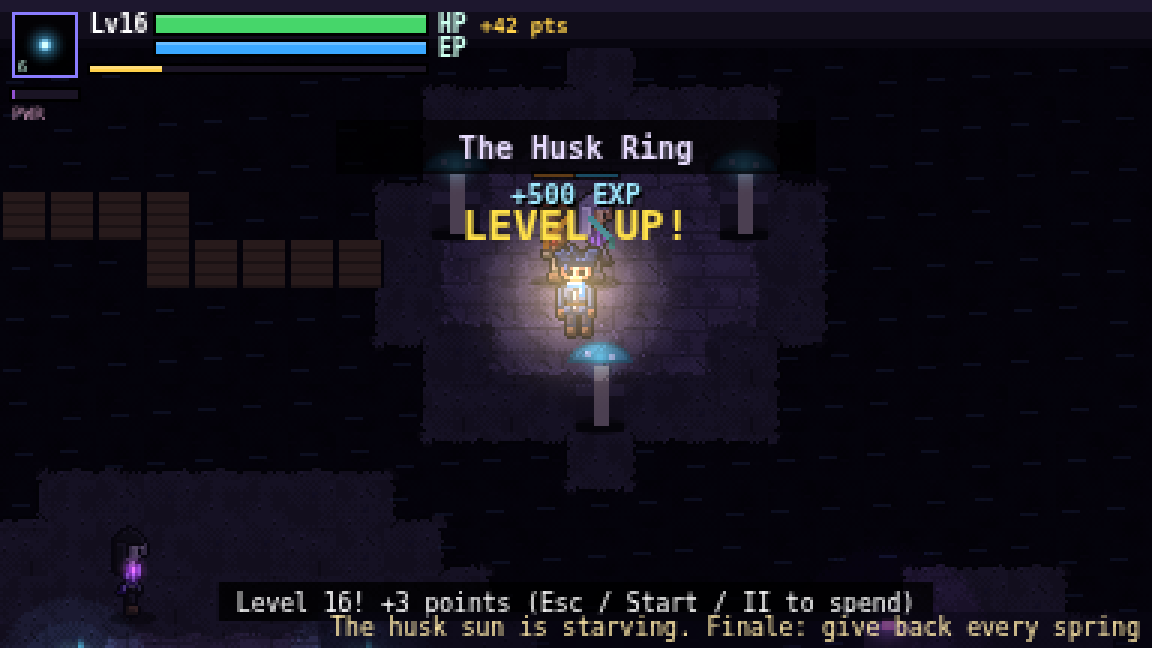
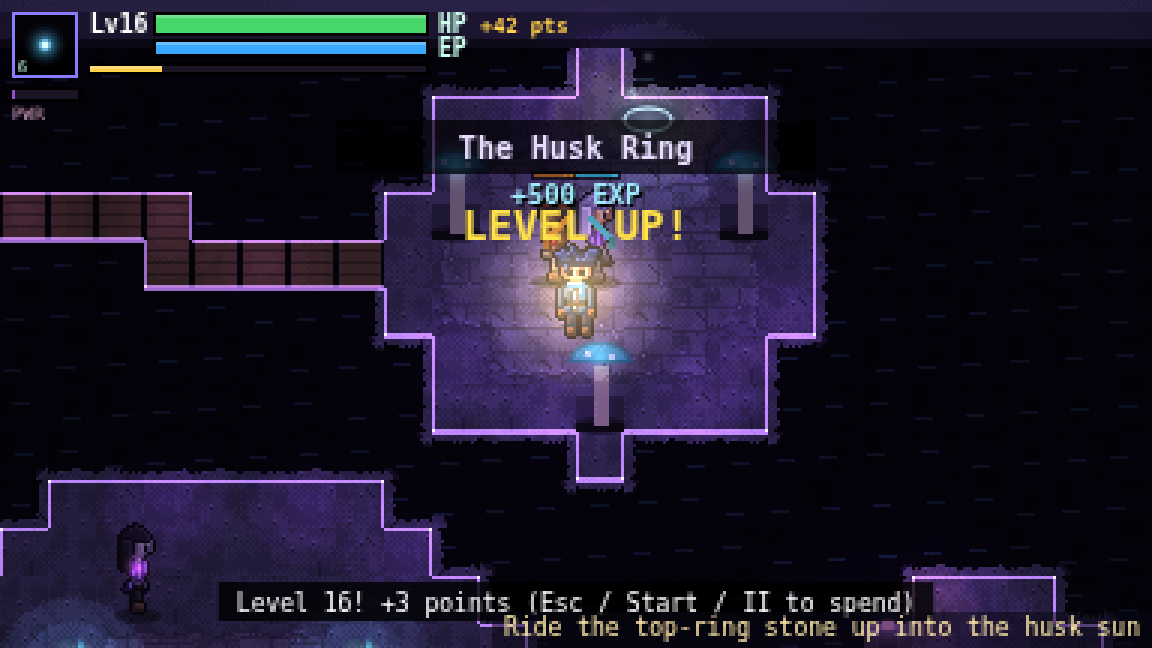
W11: brighter Stair + husk sun, Husk Sun finale area, dawn epilogue, credits, day/night

Changed region(s): [[0.125, 0.0, 0.7812, 0.7716], [0.0, 0.7099, 1.0, 1.0], [0.0, 0.2778, 0.1875, 0.4012]]

diff --git a/src/areas/art.ts b/src/areas/art.ts
@@ -8,18 +8,21 @@ import { groundSet, drawGround, type GroundSet, type Kind } from "./groundgen";
 type C2 = CanvasRenderingContext2D;
 const PAL = {
   moss: { floor: ["#3d3a46", "#383542"], moss: ["#33452f", "#2f402b"], path: ["#5a4c3c", "#54473a"], wall: ["#3a3448", "#4c4560", "#231f2e"], water: ["#1c2a4a", "#22325a"] },
-  violet: { floor: ["#3a3248", "#363044"], moss: ["#2e2a44", "#2a2640"], path: ["#4a4258", "#463e54"], wall: ["#2e2838", "#4e4660", "#161220"], water: ["#0a0614", "#0c0818"] },
+  violet: { floor: ["#5c5274", "#585070"], moss: ["#4c4670", "#48426c"], path: ["#6e6488", "#6a6084"], wall: ["#3e3650", "#5e5678", "#1e1828"], water: ["#07040f", "#090512"] },
+  husk: { floor: ["#4a2a2e", "#46282c"], moss: ["#3a2230", "#36202c"], path: ["#5a3a30", "#56362e"], wall: ["#2a1418", "#4a2a26", "#140a0c"], water: ["#c06a20", "#d07a28"] },
   tide: { floor: ["#2a3a40", "#26363c"], moss: ["#1e3a3a", "#1c3636"], path: ["#3c4a4a", "#384646"], wall: ["#2a3438", "#4a5a5c", "#141c20"], water: ["#0e4a5a", "#125664"] },
   ember: { floor: ["#3a2e2a", "#362a26"], moss: ["#2e2626", "#2a2222"], path: ["#5a4232", "#54402e"], wall: ["#3a2a28", "#5a3a30", "#1e1412"], water: ["#8a2a10", "#a03a14"] },
   marsh: { floor: ["#2f3440", "#2b303b"], moss: ["#2c3a3a", "#283636"], path: ["#4a4438", "#454034"], wall: ["#2e2a3e", "#403a56", "#1c1828"], water: ["#241a44", "#2c2052"] },
 };
 
-const GPAL = { moss: { spore: "#6ad8ff", plaza: "#544c5a" }, marsh: { spore: "#b48aff", plaza: "#4c4652" }, ember: { spore: "#ff8a4a", plaza: "#6a5650" }, tide: { spore: "#7affe0", plaza: "#4e5e60" }, violet: { spore: "#c48aff", plaza: "#5a4e6a" } };
-const GSETS: Partial<Record<"moss" | "marsh" | "ember" | "tide" | "violet", GroundSet>> = {};
-const gset = (t: "moss" | "marsh" | "ember" | "tide" | "violet") => (GSETS[t] ??= groundSet({ floor: PAL[t].floor[0], moss: PAL[t].moss[0], path: PAL[t].path[0], water: PAL[t].water[0], ...GPAL[t] }, t === "moss" ? 1 : t === "marsh" ? 2 : t === "ember" ? 3 : 4));
+const GPAL = { moss: { spore: "#6ad8ff", plaza: "#544c5a" }, marsh: { spore: "#b48aff", plaza: "#4c4652" }, ember: { spore: "#ff8a4a", plaza: "#6a5650" }, tide: { spore: "#7affe0", plaza: "#4e5e60" }, violet: { spore: "#d4a0ff", plaza: "#6e6284" }, husk: { spore: "#ffb050", plaza: "#5a3236" } };
+const GSETS: Partial<Record<"moss" | "marsh" | "ember" | "tide" | "violet" | "husk", GroundSet>> = {};
+const gset = (t: "moss" | "marsh" | "ember" | "tide" | "violet" | "husk") => (GSETS[t] ??= groundSet({ floor: PAL[t].floor[0], moss: PAL[t].moss[0], path: PAL[t].path[0], water: PAL[t].water[0], ...GPAL[t] }, t === "moss" ? 1 : t === "marsh" ? 2 : t === "ember" ? 3 : 4));
+export const CREDITS_T = 52;
+const CREDITS = ["#KI QUEST", "", "an original game for Bill Weathersbee", "", "#Lamps still need lighting.", "#Just not all the time.", "", "", "#Story & World", "the World/Story team", "", "#Combat, Heroes & Bosses", "the Master Builder team", "", "#Menus, Save & Input", "the Cozy Builder team", "", "#Music & Sound", "Hearthmoor Sound (ACE-Step 1.5, sfxr)", "", "#Starring", "Rook, the lamplighter", "Mirela, keeper of the dead", "Brann Okoro, smith", "Sable Kestrel, the herald who turned", "", "#and", "Malachar Vesh, the Last Dusk", "", "", "#Thank you for playing.", "", "The glow nights still come each evening.", "Everyone gathers close, by choice now."];
 const KIND: Record<number, Kind> = { [T_FLOOR]: "floor", [T_MOSS]: "moss", [T_PATH]: "path", [T_PLAZA]: "plaza", [T_WATER]: "water", [T_HIDDEN]: "water", [T_WARD]: "floor" };
 
-export function tile(c: C2, theme: "moss" | "marsh" | "ember" | "tide" | "violet", v: number, X: number, Y: number, tx: number, ty: number, time: number, tiles?: Uint8Array) {
+export function tile(c: C2, theme: "moss" | "marsh" | "ember" | "tide" | "violet" | "husk", v: number, X: number, Y: number, tx: number, ty: number, time: number, tiles?: Uint8Array) {
   if (v === T_HIDDEN) v = T_WATER;
   const P = PAL[theme], ch = (tx + ty) & 1;
   const k = KIND[v];
@@ -126,7 +129,19 @@ function npc(c: C2, id: string, area: string, x: number, y: number, t: number) {
 }
 
 /** Push props, NPCs, stones into the y-sorted draw list (called from draw.ts). */
+/** The husk sun seen from the Stair: a vast dark sphere hanging in the void, south-east of the rings. */
+const SUN = { x: 41 * 16, y: 27 * 16, r: 64 };
+const edge = (T: Uint8Array, x: number, y: number) => [[1, 0], [-1, 0], [0, 1], [0, -1]].some(([a, b]) => T[(y + b) * 48 + x + a] === T_WATER);
+/** Day strength after the dawn epilogue: a gentle 4-minute day/night cycle (0 = glow night, 1 = noon). */
+export const dayK = (t: number) => Math.max(0, Math.sin((t / 240) * Math.PI * 2));
 export function worldSprites(c: C2, g: Game, cx: number, cy: number, list: { y: number; d: () => void }[]) {
+  if (g.area.theme === "violet") list.push({ y: -1e9, d: () => {
+    const X = SUN.x - cx, Y = SUN.y - cy; if (X < -SUN.r - 40 || X > 460 || Y < -SUN.r - 40 || Y > 300) return;
+    const gr = c.createRadialGradient(X - 18, Y - 18, 6, X, Y, SUN.r); gr.addColorStop(0, "#2a1838"); gr.addColorStop(0.7, "#120a1c"); gr.addColorStop(1, "#06030c");
+    c.fillStyle = gr; c.beginPath(); c.arc(X, Y, SUN.r, 0, Math.PI * 2); c.fill();
+    c.strokeStyle = "#3a2450"; c.lineWidth = 1; for (const k of [-0.5, 0, 0.45]) { c.beginPath(); c.ellipse(X, Y + k * SUN.r, SUN.r * Math.sqrt(1 - k * k), 4, 0, 0, Math.PI * 2); c.stroke(); }
+    c.fillStyle = "#5a2a1a"; for (let i = 0; i < 9; i++) { const a = i * 0.7 + 0.3, r = SUN.r * (0.2 + 0.07 * i); c.fillRect(Math.round(X + Math.cos(a) * r), Math.round(Y + Math.sin(a) * r * 0.8), 2, 1); }
+  } });
   const a = g.area, marsh = a.theme === "marsh";
   for (const p of a.props) {
     const X = p.x - cx, Y = p.y - cy;
@@ -147,9 +162,17 @@ export function bindStory(s: Story) { st = s; }
 export function worldLights(g: Game, cx: number, cy: number, add: (x: number, y: number, r: number, col: [number, number, number], f: number) => void) {
   for (const p of g.area.props) if (p.kind === "crystal") add(p.x - cx, p.y - cy - 8, 40, [0.45, 0.95, 1], 0);
   for (const p of g.area.props) if (p.kind === "house") add(p.x - cx, p.y - cy - 12, 56, g.area.theme === "ember" ? [1, 0.5, 0.2] : g.area.theme === "tide" ? [0.3, 0.9, 0.8] : [0.35, 0.55, 1], 0);
-  if (g.area.theme === "ember" || g.area.theme === "tide") { // lava / glowing canals light the scene
+  const T = g.area.tiles, X0 = Math.max(0, Math.floor(cx / 16) - 1), Y0 = Math.max(0, Math.floor(cy / 16) - 1);
+  if (g.area.theme === "violet") { // the Stair: soft violet fill, neon ring edges, the husk sun's cold rim
+    add(192, 108, 340, [0.2, 0.15, 0.28], 0);
+    for (let ty = Y0; ty < Math.min(34, Y0 + 16); ty++) for (let tx = X0; tx < Math.min(48, X0 + 27); tx++) if ((tx + ty) % 3 === 0 && T[ty * 48 + tx] !== T_WATER && T[ty * 48 + tx] !== T_WALL && edge(T, tx, ty)) add(tx * 16 + 8 - cx, ty * 16 + 8 - cy, 34, [0.32, 0.16, 0.5], 0);
+    add(SUN.x - cx, SUN.y - cy, 150, [0.22, 0.1, 0.3], 0);
+  }
+  if (g.area.theme === "husk") add(192, 108, 360, [0.3, 0.16, 0.12], 0);
+  if (st?.flags.dawn) { const k = dayK(g.time); if (k > 0.02) add(192, 108, 460, [0.9 * k, 0.8 * k, 0.55 * k], 0); }
+  if (g.area.theme === "ember" || g.area.theme === "tide" || g.area.theme === "husk") { // lava / glowing canals light the scene
     const t = g.area.tiles, x0 = Math.max(0, Math.floor(cx / 16)), y0 = Math.max(0, Math.floor(cy / 16));
-    for (let ty = y0; ty < Math.min(34, y0 + 15); ty += 2) for (let tx = x0; tx < Math.min(48, x0 + 25); tx += 2) if (t[ty * 48 + tx] === T_WATER) add(tx * 16 + 8 - cx, ty * 16 + 8 - cy, 44, g.area.theme === "ember" ? [0.55, 0.22, 0.08] : [0.1, 0.35, 0.35], 0);
+    for (let ty = y0; ty < Math.min(34, y0 + 15); ty += 2) for (let tx = x0; tx < Math.min(48, x0 + 25); tx += 2) if (t[ty * 48 + tx] === T_WATER) add(tx * 16 + 8 - cx, ty * 16 + 8 - cy, 44, g.area.theme === "ember" ? [0.55, 0.22, 0.08] : g.area.theme === "husk" ? [0.5, 0.3, 0.1] : [0.1, 0.35, 0.35], 0);
     if (g.area.id === "emberquarry") add(192, 108, 320, [0.16, 0.1, 0.07], 0);
   }
   for (const s of g.area.travel) add(s.x - cx, s.y - cy, 52, [0.7, 0.9, 1], 0);
@@ -159,6 +182,19 @@ export function worldLights(g: Game, cx: number, cy: number, add: (x: number, y:
 }
 /** Additive glows after the light layer. */
 export function worldGlow(c: C2, g: Game, cx: number, cy: number, glow: (c: C2, x: number, y: number, r: number, col: string, a?: number) => void) {
+  if (g.area.theme === "violet") { // neon rims on the floating rings + the husk sun's rim
+    const T = g.area.tiles, X0 = Math.max(0, Math.floor(cx / 16)), Y0 = Math.max(0, Math.floor(cy / 16)), k = 0.55 + 0.25 * Math.sin(g.time * 2);
+    c.fillStyle = `rgba(200,140,255,${k})`;
+    for (let ty = Y0; ty < Math.min(34, Y0 + 15); ty++) for (let tx = X0; tx < Math.min(48, X0 + 26); tx++) {
+      const v = T[ty * 48 + tx]; if (v === T_WATER || v === T_WALL) continue;
+      const X = tx * 16 - cx, Y = ty * 16 - cy, w = (x: number, y: number) => T[y * 48 + x] === T_WATER;
+      if (ty > 0 && w(tx, ty - 1)) c.fillRect(X, Y, 16, 1); if (ty < 33 && w(tx, ty + 1)) c.fillRect(X, Y + 15, 16, 2);
+      if (tx > 0 && w(tx - 1, ty)) c.fillRect(X, Y, 1, 16); if (tx < 47 && w(tx + 1, ty)) c.fillRect(X + 15, Y, 1, 16);
+    }
+    const sx = SUN.x - cx, sy = SUN.y - cy, f = 0.5 + 0.5 * Math.sin(g.time * 0.9) * Math.sin(g.time * 2.3);
+    glow(c, sx, sy, SUN.r + 26, "rgba(150,70,220,.35)"); glow(c, sx + 10, sy - 8, 14 + f * 6, `rgba(255,170,90,${0.25 + 0.3 * f})`);
+  }
+  if (g.area.theme === "husk") for (const p of g.area.props) if (p.kind === "crystal") glow(c, p.x - cx, p.y - cy - 10, 20, st?.flags.poured ? "rgba(255,220,120,.7)" : "rgba(255,120,60,.35)");
   for (const p of g.area.props) {
     if (p.kind === "house") { glow(c, p.x - cx, p.y - cy - 16, 22, g.area.theme === "ember" ? "rgba(255,120,40,.35)" : "rgba(80,140,255,.35)"); glow(c, p.x - cx - 10, p.y - cy - 2, 5, "rgba(255,210,140,.7)"); glow(c, p.x - cx + 10, p.y - cy - 2, 5, "rgba(255,210,140,.7)"); }
     else if (p.kind === "crystal") glow(c, p.x - cx + 2, p.y - cy - 8, 14, "rgba(120,240,255,.5)");
@@ -187,6 +223,13 @@ function wrap(c: C2, s: string, w: number) {
 /** Story overlay: objective, talk hint, dialogue box, intro, flight transition. Drawn after render(). */
 export function storyOverlay(c: C2, g: Game, s: Story, W: number, H: number) {
   c.save(); c.font = "8px monospace"; c.textBaseline = "top";
+  if (s.credits > 0) { // dawn credits roll
+    const t = CREDITS_T - s.credits, a = Math.min(1, t / 1.5);
+    const gr = c.createLinearGradient(0, 0, 0, H); gr.addColorStop(0, `rgba(255,214,140,${a})`); gr.addColorStop(0.5, `rgba(200,150,170,${a})`); gr.addColorStop(1, `rgba(40,30,70,${a})`);
+    c.fillStyle = gr; c.fillRect(0, 0, W, H); c.textAlign = "center";
+    CREDITS.forEach((l, i) => { const y = H + 10 + i * 14 - t * 16; if (y < -12 || y > H + 12) return; c.fillStyle = l.startsWith("#") ? "#fff6dc" : "#3a2440"; c.font = l.startsWith("#") ? "bold 10px monospace" : "8px monospace"; c.fillText(l.replace(/^#/, ""), W / 2, y); });
+    c.font = "8px monospace"; c.fillStyle = "rgba(58,36,64,.8)"; c.fillText("(J / Start to skip)", W / 2, H - 10); c.restore(); return;
+  }
   if (g.mode === "play" && !s.active) {
     const o = s.objective(); c.textAlign = "right";
     c.fillStyle = "rgba(10,8,20,.55)"; c.fillRect(W - c.measureText(o).width - 8, H - 12, c.measureText(o).width + 8, 12);
@@ -233,7 +276,7 @@ export function areaMap(c: C2, g: Game, ox: number, oy: number, s: number) {
 
 /** World-map flight screen: the Mirrorfen Reaches, a dotted route and the hero's glow riding the updraft. */
 const SPOTS: Record<string, { x: number; y: number; name: string }> = {
-  lanternmoss: { x: 0.28, y: 0.58, name: "Lanternmoss Hollow" }, hushwater: { x: 0.7, y: 0.38, name: "Hushwater" }, kilnreach: { x: 0.86, y: 0.72, name: "Kilnreach" }, emberquarry: { x: 0.9, y: 0.84, name: "Emberheart Quarry" }, drowned: { x: 0.52, y: 0.16, name: "Drowned Vesper" }, undertide: { x: 0.56, y: 0.22, name: "The Undertide" }, stair: { x: 0.5, y: 0.05, name: "Sunwarden's Stair" },
+  lanternmoss: { x: 0.28, y: 0.58, name: "Lanternmoss Hollow" }, hushwater: { x: 0.7, y: 0.38, name: "Hushwater" }, kilnreach: { x: 0.86, y: 0.72, name: "Kilnreach" }, emberquarry: { x: 0.9, y: 0.84, name: "Emberheart Quarry" }, drowned: { x: 0.52, y: 0.16, name: "Drowned Vesper" }, undertide: { x: 0.56, y: 0.22, name: "The Undertide" }, stair: { x: 0.5, y: 0.05, name: "Sunwarden's Stair" }, husk: { x: 0.62, y: 0.03, name: "The Husk Sun" },
 };
 const LOCKED = [{ x: 0.3, y: 0.8, name: "Wellspring Grotto" }];
 function flightMap(c: C2, g: Game, s: Story, W: number, H: number) {

diff --git a/src/story/index.ts b/src/story/index.ts
@@ -1,3 +1,4 @@
+import { CREDITS_T } from "../areas/art";
 /**
  * Story layer: intro, NPC talk, dialogue box, sealed wards, updraft-stone travel between areas, objective line.
  * Runs beside the sim: main.ts calls story.update() before game.step(); when it returns true the sim is paused.
@@ -11,17 +12,19 @@ import { INTRO, NPCS, Flags } from "./script";
 const KEY = "kiquest.story.v1";
 type Box = { who: string; lines: string[]; i: number; t: number; then?: () => void };
 
+const F0 = (f: Record<string, unknown>) => !!f.dawn;
 export class Story {
   flags: Flags = {};
   lastKills = 0;
   box: Box | null = null;
   intro = -1; introT = 0;
+  credits = 0;
   fly = 0; flyTo = ""; flyFrom = ""; near: string | null = null; zone = ""; zoneT = 0;
   constructor(public g: Game, public input: Input) {
     try { this.flags = JSON.parse(localStorage.getItem(KEY) || "{}") || {}; } catch { this.flags = {}; }
   }
   save() { try { localStorage.setItem(KEY, JSON.stringify(this.flags)); } catch { /* full */ } }
-  get active() { return !!this.box || this.intro >= 0 || this.fly > 0; }
+  get active() { return this.credits > 0 || !!this.box || this.intro >= 0 || this.fly > 0; }
 
   /** Called after game.start(). New game: reset story, show intro. Continue: restore area. */
   begin(cont: boolean) {
@@ -53,6 +56,7 @@ export class Story {
       }
       return true;
     }
+    if (this.credits > 0) { inp.poll(); this.credits -= dt; if ((this.ok() || inp.pressed("pause")) && this.credits < CREDITS_T - 2) this.credits = 0; if (this.credits <= 0) { this.credits = 0; g.banner = "Dawn over " + g.area.name; g.bannerT = 3; } return true; }
     if (this.fly > 0) {
       this.fly -= dt; inp.poll();
       if (this.fly <= 0.6 && this.flyTo) { this.enter(this.flyTo); this.flyTo = ""; const st = g.stats as Record<string, number>; st.travels = (st.travels ?? 0) + 1; }
@@ -84,6 +88,7 @@ export class Story {
     }
     for (const s of g.area.travel) if (Math.hypot(s.x - g.p.x, s.y - g.p.y) < 10 && !this.flags.stoneT) {
       this.flags.stoneT = true;
+      if (s.to === "husk" && !this.flags.threshold) { this.say("Top-ring stone", ["This slab points straight up at the husk sun.", "Morvant still bars the way. NONE ASCEND."]); return true; }
       if (s.to === "stair" && !this.flags.malachar) { this.say("Undertide stone", ["A violet slab, colder than the sea. It points north, up.", "Whatever is up there hasn't been named yet. Find out who the guard was guarding."]); return true; }
       if (s.to === "undertide" && !this.flags.sigilDone) { this.say("Tide stair", ["A stair of wet rune-stone, going down under the canals. The seal is a sun with a missing ray.", "Neri would know how to open it."]); return true; }
       if (s.to === "drowned" && !this.flags.quarryBossDown) { this.say("Rune slab", ["A slab in the arena wall, carved with a drowned sun. It's dark.", "Whatever is drinking the Quarry Heart is still here. Deal with it first."]); return true; }
@@ -108,6 +113,14 @@ export class Story {
           "So the sea gave up my name. Good. I'm tired of hiding it.", "I held the sun for forty years. Do you know what it's like to light a world that never once looks up and thanks you?",
           "In the dark, they look up. They gather close. They need. I gave them the night, and I'll give them one last light: me.", "Sable. Come home."],
           () => { unred(); F.malachar = true; this.save(); this.say("Neri", ["(The projection fades. A red light streaks north over the sea.)", "That was Sable. North is the Stair. No one comes back from the Stair.", "The Undertide stone points north. Its cold slab would wake for you now."]); }); }))))); return true;
+    }
+    // Finale: inside the husk sun
+    if (g.area.id === "husk" && !F.huskIn && !this.box) return B("huskIn", "The Husk Sun", ["(Inside, the sun is a cathedral of cold ash. Five pedestals ring a heart that barely beats.)", "Malachar: \"You climbed all this way to watch it die with me? How kind.\"", "Malachar: \"Every Wellspring you walked past, I drank. Every lamp you lit, I let you light. Come, lamplighter. Be the last warm thing.\""], 300);
+    if (g.area.id === "husk" && F.malacharDown && !F.dawn && !this.box) {
+      F.poured = true; this.save();
+      this.say("The Wellsprings", ["(The heroes don't take the light. They give it back.)", "Rook pours the Lanternmoss spring. Mirela, the Hushwater dead's. Brann, the Quarry Heart.", "Neri's tide-light rises from the drowned Wellspring. And Sable pours back everything he drank from her."],
+        () => this.say("Malachar Vesh", ["(Left with only his own small light, he looks up at the sun, relit.)", "...It's warm. I'd forgotten it was warm.", "(He goes still. He fades into a single warm glow orb that drifts out into the dawn.)"],
+        () => { F.dawn = true; this.save(); g.gainExp(1000); this.say("Rook", ["(The first grey-gold dawn in three hundred years.)", "Lamps still need lighting. Just not all the time."], () => { this.credits = CREDITS_T; }); })); return true;
     }
     // Act III open: the Sunwarden's Stair
     if (g.area.id === "stair" && !F.stairIn && !this.box) return B("stairIn", "The Sunwarden's Stair", ["(Broken stone rings float up and up toward a vast dark sphere: the husk of the sun.)", "The murals in the waystation carry a name now: \"Malachar Vesh, the last warden.\"", "Court soldiers everywhere... but they're not looking at you. They're hunting someone."], 200);
@@ -179,6 +192,9 @@ export class Story {
   }
   objective(): string {
     const f = this.flags, g = this.g;
+    if (F0(f)) return "Dawn · free roam: days are gold, the glow nights still return";
+    if (g.area.id === "husk") return f.malacharDown ? "Give the light back" : "Defeat Malachar Vesh at the sun's heart";
+    if (g.area.id === "stair" && f.threshold) return "Ride the top-ring stone up into the husk sun";
     if (g.area.id === "stair") return f.threshold ? "The husk sun is starving. Finale: give back every spring" : f.morvantDown ? "Climb to the top ring" : f.sableJoin ? "Top ring: get past Morvant, the Eclipse Golem" : "Free Sable from the Red Cage (centre ring)";
     if (g.area.id === "drowned" && f.malachar) return "Malachar Vesh is named · the Undertide stone now points north to the Stair";
     if (g.area.id === "undertide" && f.malachar) return "Ride the Undertide stone (by the tide stair) north to the Sunwarden's Stair";

diff --git a/src/areas/maps.ts b/src/areas/maps.ts
@@ -237,7 +237,7 @@ export const UNDERTIDE_ARENA = { tx: 37, ty: 17, r: 6 };
 export const STAIR = [
   "################################################",
   "#~~~~~~~~~~~~~~~~~~~~~~~~~~~~~~~.~~~~~~~~~~~~~~#",
-  "#~~~~~~~~~~~~...~~~~~~~~~~~~~.......~~~~~~~~~~~#",
+  "#~~~~~~~~~~~~...~~~~~~~~~~~~~....Y..~~~~~~~~~~~#",
   "#~~~~~~~~~~~...*.~~~~~~~~~~~~.=====.~~~~~~~~~~~#",
   "#~~~~~~~~~~~.....bbbbbbb~~~~.T=====T.~~~~~~~~~~#",
   "#~~~~~~~~~~~..g..~~~~~~bbbbb.=======.~~~~~~~~~~#",
@@ -273,3 +273,43 @@ export const STAIR = [
 /** Master Builder slots (tiles): the Red Cage ring (3 pylons `C` at (21,14),(27,14),(24,18); Cageward Twins + eclipse golem) and the top-ring arena (Morvant). */
 export const STAIR_CAGE = { tx: 24, ty: 15, r: 5 };
 export const STAIR_ARENA = { tx: 32, ty: 5, r: 4 };
+
+/** Finale: inside the husk sun. Malachar's arena is the ring of cold light; `K` is the sun's heart, `C` the five Wellspring pedestals. */
+export const HUSK = [
+  "################################################",
+  "################################################",
+  "################################################",
+  "#####################...w.######################",
+  "##################..............################",
+  "################........C........###############",
+  "##############.....L.........L.....#############",
+  "#############.......................############",
+  "############........~~~~~~~~~........###########",
+  "###########.......~~=========~~.......##########",
+  "###########......~~===========~~.......#########",
+  "##########......~===============~......#########",
+  "##########..C...~===============~...C..#########",
+  "#########......~=================~.....#########",
+  "#########......~=================~......########",
+  "#########......~========K========~......########",
+  "#########......~=================~......########",
+  "##########.....~=================~......########",
+  "##########....L.~===============~~L....#########",
+  "##########......~~==============~......#########",
+  "###########......~~===========~~......##########",
+  "###########........~~========~~.......##########",
+  "############........~~~bbb~~~........###########",
+  "#############...wC.............Cw...############",
+  "##############.....................#############",
+  "################.................###############",
+  "#################..............#################",
+  "######################...#.#####################",
+  "######################..@..#####################",
+  "#####################S.....#####################",
+  "######################..U..#####################",
+  "######################.....#####################",
+  "################################################",
+  "################################################",
+];
+/** Master Builder: Malachar Vesh, the Last Dusk (overlord form). Ring floor r~8 inside a moat of husk-light, entered by the south bridge. */
+export const HUSK_ARENA = { tx: 24, ty: 15, r: 8 };

diff --git a/src/world.ts b/src/world.ts
@@ -1,5 +1,5 @@
 /** Areas: ASCII maps (src/areas/maps.ts) -> tiles, lamps, props, NPCs, spawns, gates and updraft stones. */
-import { LANTERNMOSS, HUSHWATER, KILNREACH, EMBERQUARRY, DROWNED, UNDERTIDE, STAIR } from "./areas/maps";
+import { LANTERNMOSS, HUSHWATER, KILNREACH, EMBERQUARRY, DROWNED, UNDERTIDE, STAIR, HUSK } from "./areas/maps";
 export const TILE = 16;
 export const MW = 48, MH = 34;
 export const T_FLOOR = 0, T_WALL = 1, T_MOSS = 2, T_PLAZA = 3, T_WATER = 4, T_PATH = 5, T_BOARD = 6, T_WARD = 7, T_HIDDEN = 8;
@@ -11,7 +11,7 @@ export interface Travel { x: number; y: number; to: string; label: string }
 export interface Orb { i: number; x: number; y: number }
 export interface Ward { tx: number; ty: number; lvl: number }
 export interface Area {
-  id: string; name: string; music: string; bossMusic?: string; theme: "moss" | "marsh" | "ember" | "tide" | "violet";
+  id: string; name: string; music: string; bossMusic?: string; theme: "moss" | "marsh" | "ember" | "tide" | "violet" | "husk";
   tiles: Uint8Array; lamps: Lamp[]; pad: { x: number; y: number }; start: { x: number; y: number }; spawns: Spawn[];
   props: Prop[]; npcs: Npc[]; orbs: Orb[]; springs: { x: number; y: number }[]; travel: Travel[]; wards: Ward[];
   zones: { name: string; x0: number; y0: number; x1: number; y1: number }[];
@@ -31,9 +31,14 @@ export const AREA_DEFS: Record<string, Def> = {
     zones: [{ name: "Hushwater Landing", x0: 1, y0: 1, x1: 5, y1: 6 }, { name: "Hushwater Town", x0: 16, y0: 5, x1: 33, y1: 13 },
       { name: "Lantern Graveyard", x0: 34, y0: 1, x1: 46, y1: 9 }, { name: "Sunken Meadow", x0: 0, y0: 14, x1: 47, y1: 33 }, { name: "Hushwater Fen", x0: 0, y0: 0, x1: 47, y1: 33 }],
   },
+  husk: {
+    id: "husk", name: "The Husk Sun", bossMusic: "finale-theme|boss2-theme", music: "husk-theme|stair-theme|boss-theme", theme: "husk", rows: HUSK, lamp: [1, 0.55, 0.3],
+    to: "stair", toLabel: "the Sunwarden's Stair", wardLvl: 0,
+    zones: [{ name: "The Heart of the Sun", x0: 15, y0: 7, x1: 33, y1: 23 }, { name: "Husk Gate", x0: 18, y0: 24, x1: 30, y1: 32 }, { name: "Inside the Husk Sun", x0: 0, y0: 0, x1: 47, y1: 33 }],
+  },
   stair: {
     id: "stair", name: "The Sunwarden's Stair", bossMusic: "boss2-theme", music: "stair-theme|undertide-theme|drowned-vesper", theme: "violet", rows: STAIR, lamp: [0.75, 0.45, 1],
-    to: "undertide", toLabel: "The Undertide", wardLvl: 0,
+    to: "undertide", toLabel: "The Undertide", to2: "husk", to2Label: "the Husk Sun", wardLvl: 0,
     zones: [{ name: "The Husk Ring", x0: 27, y0: 1, x1: 37, y1: 9 }, { name: "The Red Cage", x0: 17, y0: 9, x1: 30, y1: 20 },
       { name: "Ruined Waystation", x0: 1, y0: 22, x1: 13, y1: 31 }, { name: "Floating Rings", x0: 0, y0: 0, x1: 47, y1: 33 }],
   },

diff --git a/HANDOFF.md b/HANDOFF.md
@@ -73,3 +73,10 @@
   - Optional per-area `bossMusic` on the area def: quarry, Undertide and Stair use `boss2-theme`, and the grotto keeps `boss-theme`.
 - **Music:** now shipped are kilnreach-theme, kilnreach-quarry, drowned-vesper and boss2-theme (credits copied from staging). **Sound team still wanted:** `undertide-theme`, `stair-theme`, and later a finale theme.
 - **Deploy gate:** kq-deploy.sh now refuses to push main or gh-pages unless gitleaks (full git history + built dist, with the scan count confirmed) and extra_secret_patterns (repo + dist) all pass.
+
+## W11 (World/Story) — Stair brightened, Husk Sun finale, dawn + credits, day/night
+- Stair (violet theme) is lighter now. Rings have neon edges, and the dead husk sun hangs in the void SE of the rings (art.ts SUN).
+- New area `husk` ("The Husk Sun") is reached by the `Y` stone on the Stair top ring and is gated on `threshold`. New theme `husk`.
+- **Master Builder:** please put Malachar Vesh in `HUSK_ARENA={tx:24,ty:15,r:8}` (maps.ts) and set `story.flags.malacharDown=true` on his defeat. The story then runs the Wellspring pour, Malachar's end, the dawn and Rook's last line, then a credits roll (`story.credits`, skippable), and sets `dawn`.
+- After `dawn`, every area runs a 4-min day/night cycle (`dayK` in art.ts).
+- **Sound team:** please make `husk-theme` (area loop) and `finale-theme` (Malachar fight). Both fall back to existing tracks for now.
